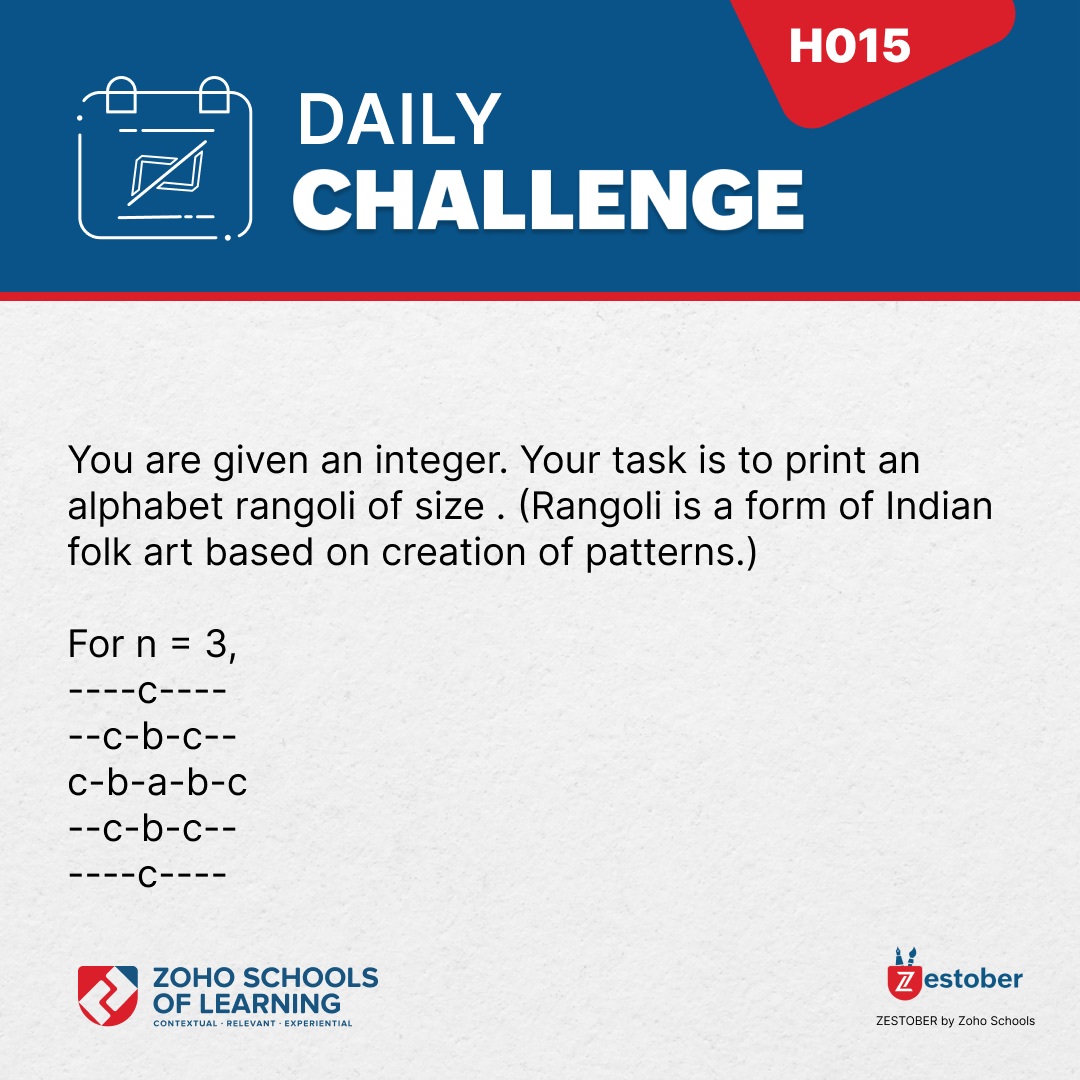
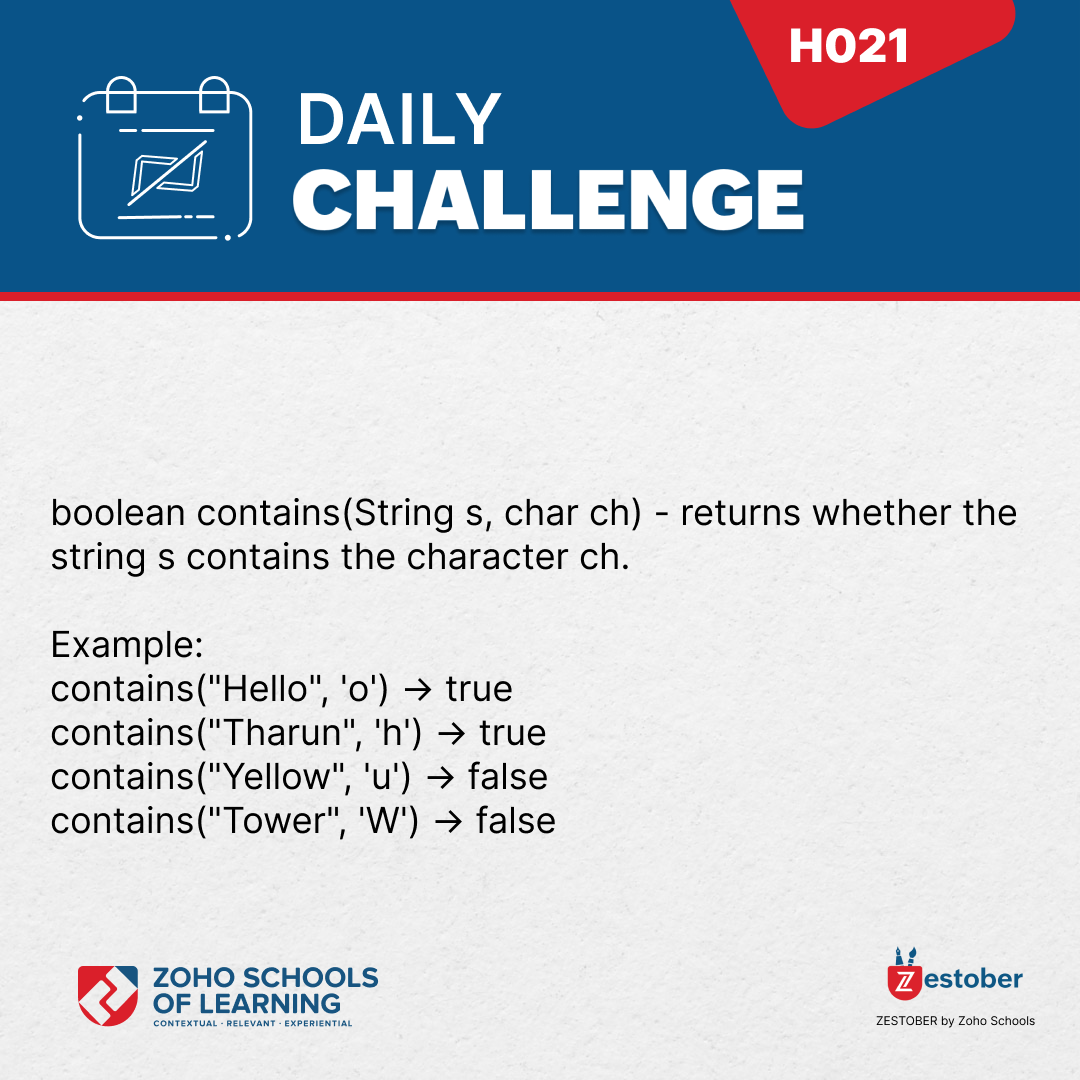
Contains method Using Recursion....
contains("software",'w')------>True;
contains("engineer",'E')------->False;

Changed region(s): [[0.0306, 0.3972, 0.9472, 0.55], [0.0306, 0.5806, 0.5194, 0.825], [0.7944, 0.0306, 0.8556, 0.0611]]

diff --git a/H021.java b/H021.java
@@ -1,0 +1,34 @@
+
+public class H021 {
+    public static void main(String[] args) {
+        // create a object for H021 class becasuse the containsString method
+        // is non static so we can use the object to get the method
+        String s=" ";
+        s.indexOf("k");
+        s.contains(s);
+        H021 obj_Boolean_Contains = new H021();
+        
+
+        System.out.println(obj_Boolean_Contains.containsString("Hello", 'o',0));
+        System.out.println(obj_Boolean_Contains.containsString("Tharun", 'h',0));
+        System.out.println(obj_Boolean_Contains.containsString("Yellow", 'u',0));
+        System.out.println(obj_Boolean_Contains.containsString("Tower", 'W',0));
+    }
+
+    
+
+    private boolean containsString(String str, char c,int startIndex) {
+        // base Condition...
+
+       
+        if (startIndex > str.length() - 1)
+            return false;
+        // check whether the character is true or flase
+        if (str.charAt(startIndex) == c)
+            return true;
+
+            startIndex++;
+        // recursive call
+        return containsString(str, c,startIndex);
+    }
+}
